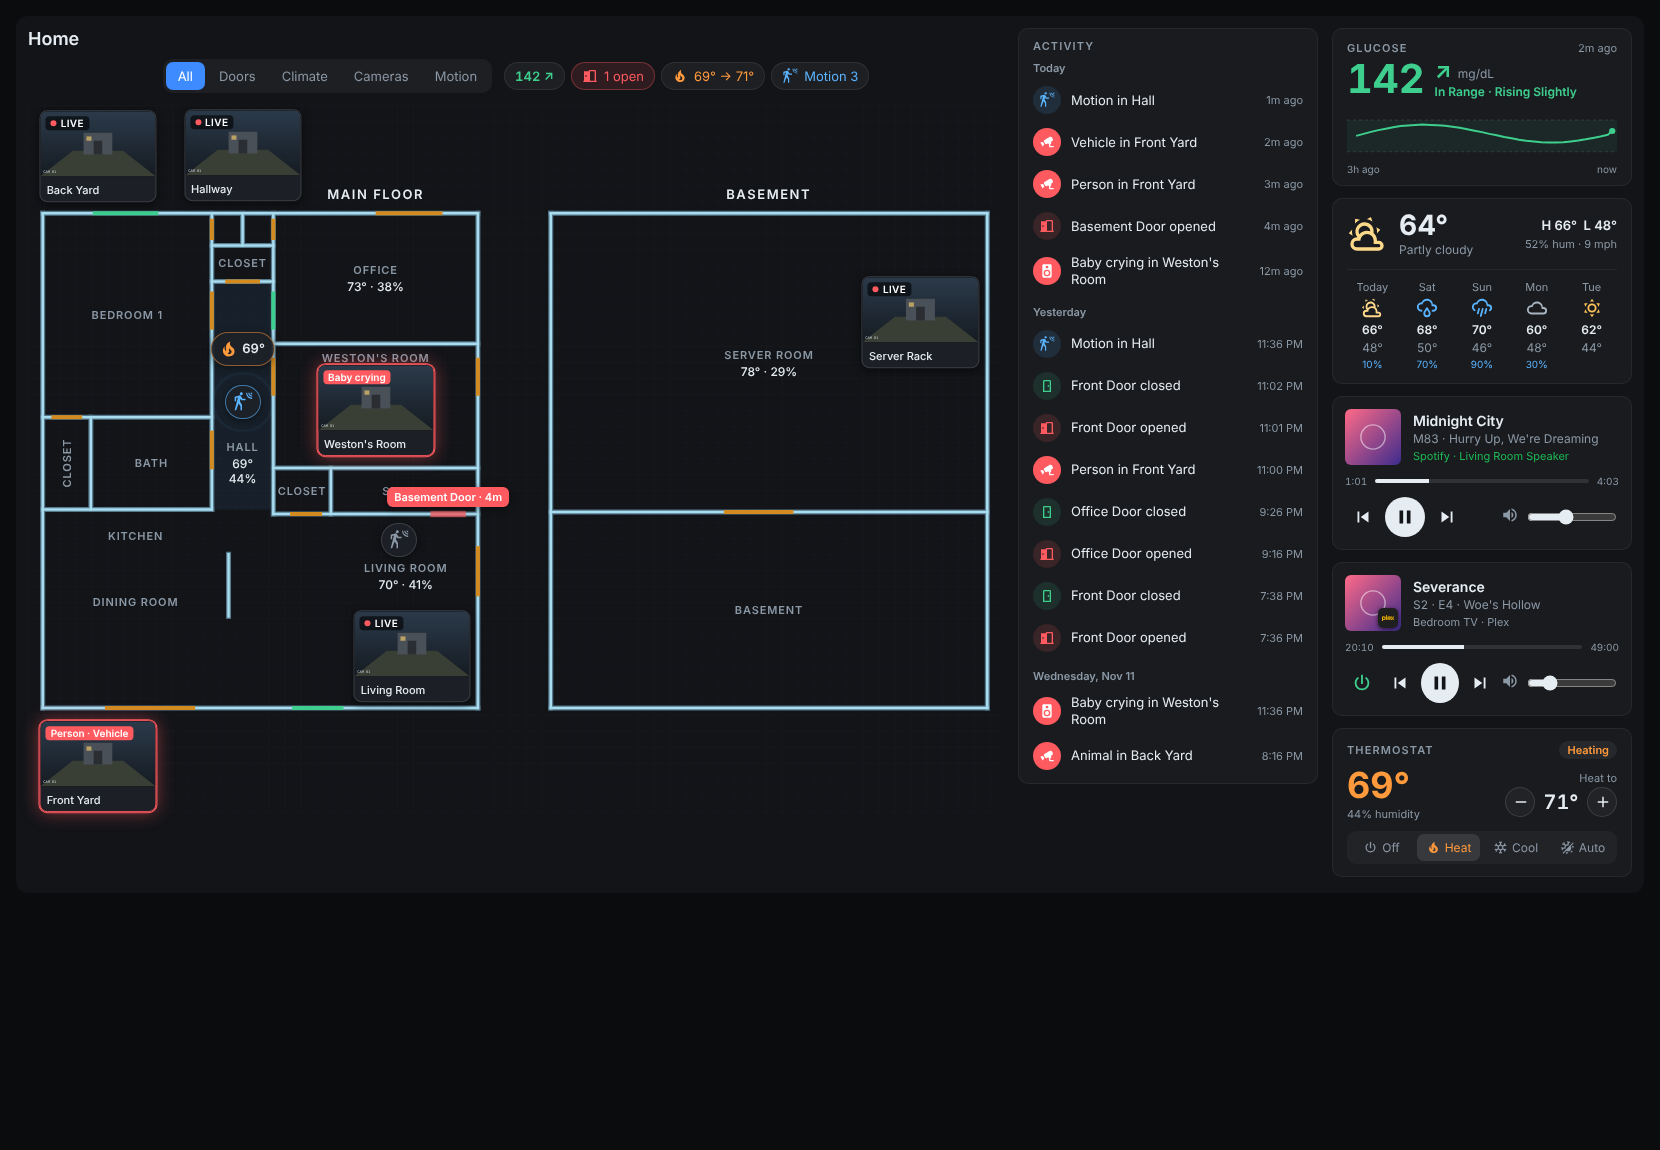
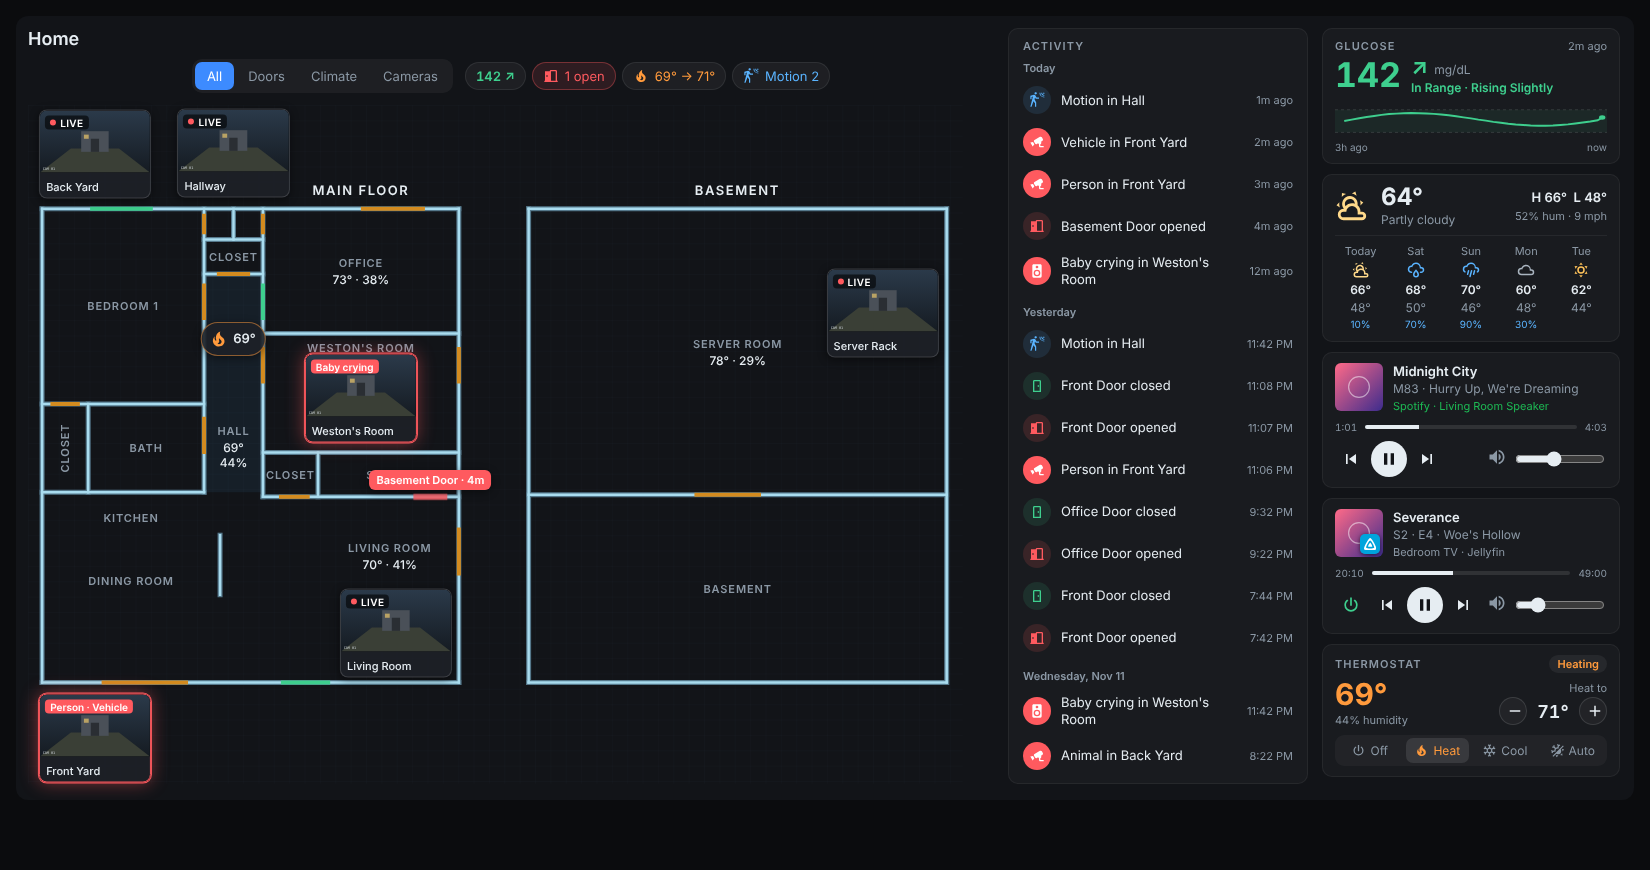
Fit the wide layout to one screen

diff --git a/home-view-card.js b/home-view-card.js
@@ -1,4 +1,4 @@
-const VERSION = "0.9.2";
+const VERSION = "0.9.3";
 
 const ICON = {
   door: "M8,3C6.89,3 6,3.89 6,5V21H18V5C18,3.89 17.11,3 16,3H8M8,5H16V19H8V5M13,11V13H15V11H13Z",
@@ -521,7 +521,29 @@ ha-card {
 }
 @container hv-card (min-width: 1240px) {
   .body { grid-template-columns: minmax(0, 1fr) var(--hv-log-width, 300px) var(--hv-side-width, 300px); grid-template-areas: "main log side"; grid-template-rows: auto; }
-  .body > .log { max-height: var(--hv-log-height, 86vh); }
+  .body > .log, .body > .side { max-height: var(--hv-fit-height, calc(100vh - 96px)); }
+  .body > .side { overflow-y: auto; scrollbar-width: thin; padding-right: 2px; }
+  .plan { width: min(100%, calc(var(--hv-max-height, calc(100vh - 200px)) * var(--ratio))); }
+  .side { gap: 10px; }
+  .gl, .wx, .th { padding: 10px 12px; }
+  .gl-val { font-size: 34px; }
+  .gl-main { margin: 2px 0 4px; }
+  .gl-spark { height: 40px; }
+  .wx-ico svg { width: 34px; height: 34px; }
+  .wx-temp { font-size: 24px; }
+  .wx-days { margin-top: 8px; padding-top: 8px; }
+  .wx-dico svg { width: 18px; height: 18px; }
+  .np { grid-template-columns: 48px minmax(0, 1fr); gap: 8px 10px; padding: 10px 12px; }
+  .np .art { width: 48px; height: 48px; }
+  .np .t { font-size: 13px; }
+  .np .ctrl button { width: 32px; height: 32px; }
+  .np .ctrl svg { width: 20px; height: 20px; }
+  .np .ctrl .pp { width: 36px; height: 36px; }
+  .th-cur { font-size: 30px; }
+  .th-row { margin: 6px 0 8px; }
+  .th-ctl button { width: 28px; height: 28px; }
+  .th-set { font-size: 18px; }
+  .th-modes button { padding: 5px 4px; }
 }
 .plan {
   position: relative; margin: 0;
